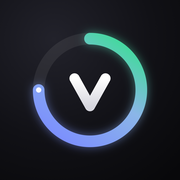
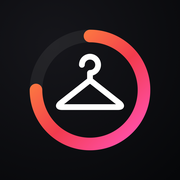
Dashboard bijgewerkt

diff --git a/index.html b/index.html
@@ -470,7 +470,7 @@ details.ink-sec > summary.ph { margin-bottom: 0; }
 
 <div class="wrap">
   <div class="topbar">
-    <div class="brand"><svg class="mark" viewBox="0 0 1024 1024" aria-hidden="true"><defs><linearGradient id="mkR" x1="0.15" y1="1" x2="0.85" y2="0"><stop offset="0" stop-color="#7B8CFF"/><stop offset="1" stop-color="#3DDC97"/></linearGradient></defs><rect width="1024" height="1024" rx="230" fill="#16161B"/><circle cx="512" cy="512" r="292" fill="none" stroke="#fff" stroke-opacity=".1" stroke-width="80"/><path d="M512 220 A292 292 0 1 1 220 512" fill="none" stroke="url(#mkR)" stroke-width="80" stroke-linecap="round"/><path d="M424 446 L512 604 L600 446" fill="none" stroke="#fff" stroke-width="72" stroke-linecap="round" stroke-linejoin="round"/></svg><span id="login">vintageton</span> <span class="crumb" id="crumb"></span></div>
+    <div class="brand"><svg class="mark" viewBox="0 0 100 100" aria-hidden="true"><defs><linearGradient id="mkR" x1="0.1" y1="0.1" x2="0.9" y2="0.9"><stop offset="0" stop-color="#FF8A3D"/><stop offset=".55" stop-color="#F23B4E"/><stop offset="1" stop-color="#FF4FA3"/></linearGradient></defs><rect width="100" height="100" rx="22" fill="#16161B"/><circle cx="50" cy="50" r="30" fill="none" stroke="#fff" stroke-opacity=".1" stroke-width="8"/><path d="M50 20 A30 30 0 1 1 20 50" fill="none" stroke="url(#mkR)" stroke-width="8" stroke-linecap="round"/><path d="M45.5 36 a4.5 4.5 0 1 1 4.5 4.5 V44.5" fill="none" stroke="#fff" stroke-width="4" stroke-linecap="round"/><path d="M50 44.5 L33.5 57.5 Q31.5 59.5 34.5 59.5 H65.5 Q68.5 59.5 66.5 57.5 Z" fill="none" stroke="#fff" stroke-width="4" stroke-linejoin="round"/></svg><span id="login">vintageton</span> <span class="crumb" id="crumb"></span></div>
     <nav class="tabs" id="tabs" role="tablist"></nav>
     <div class="controls">
       <div class="seg" id="years" role="group" aria-label="Jaar"></div>
